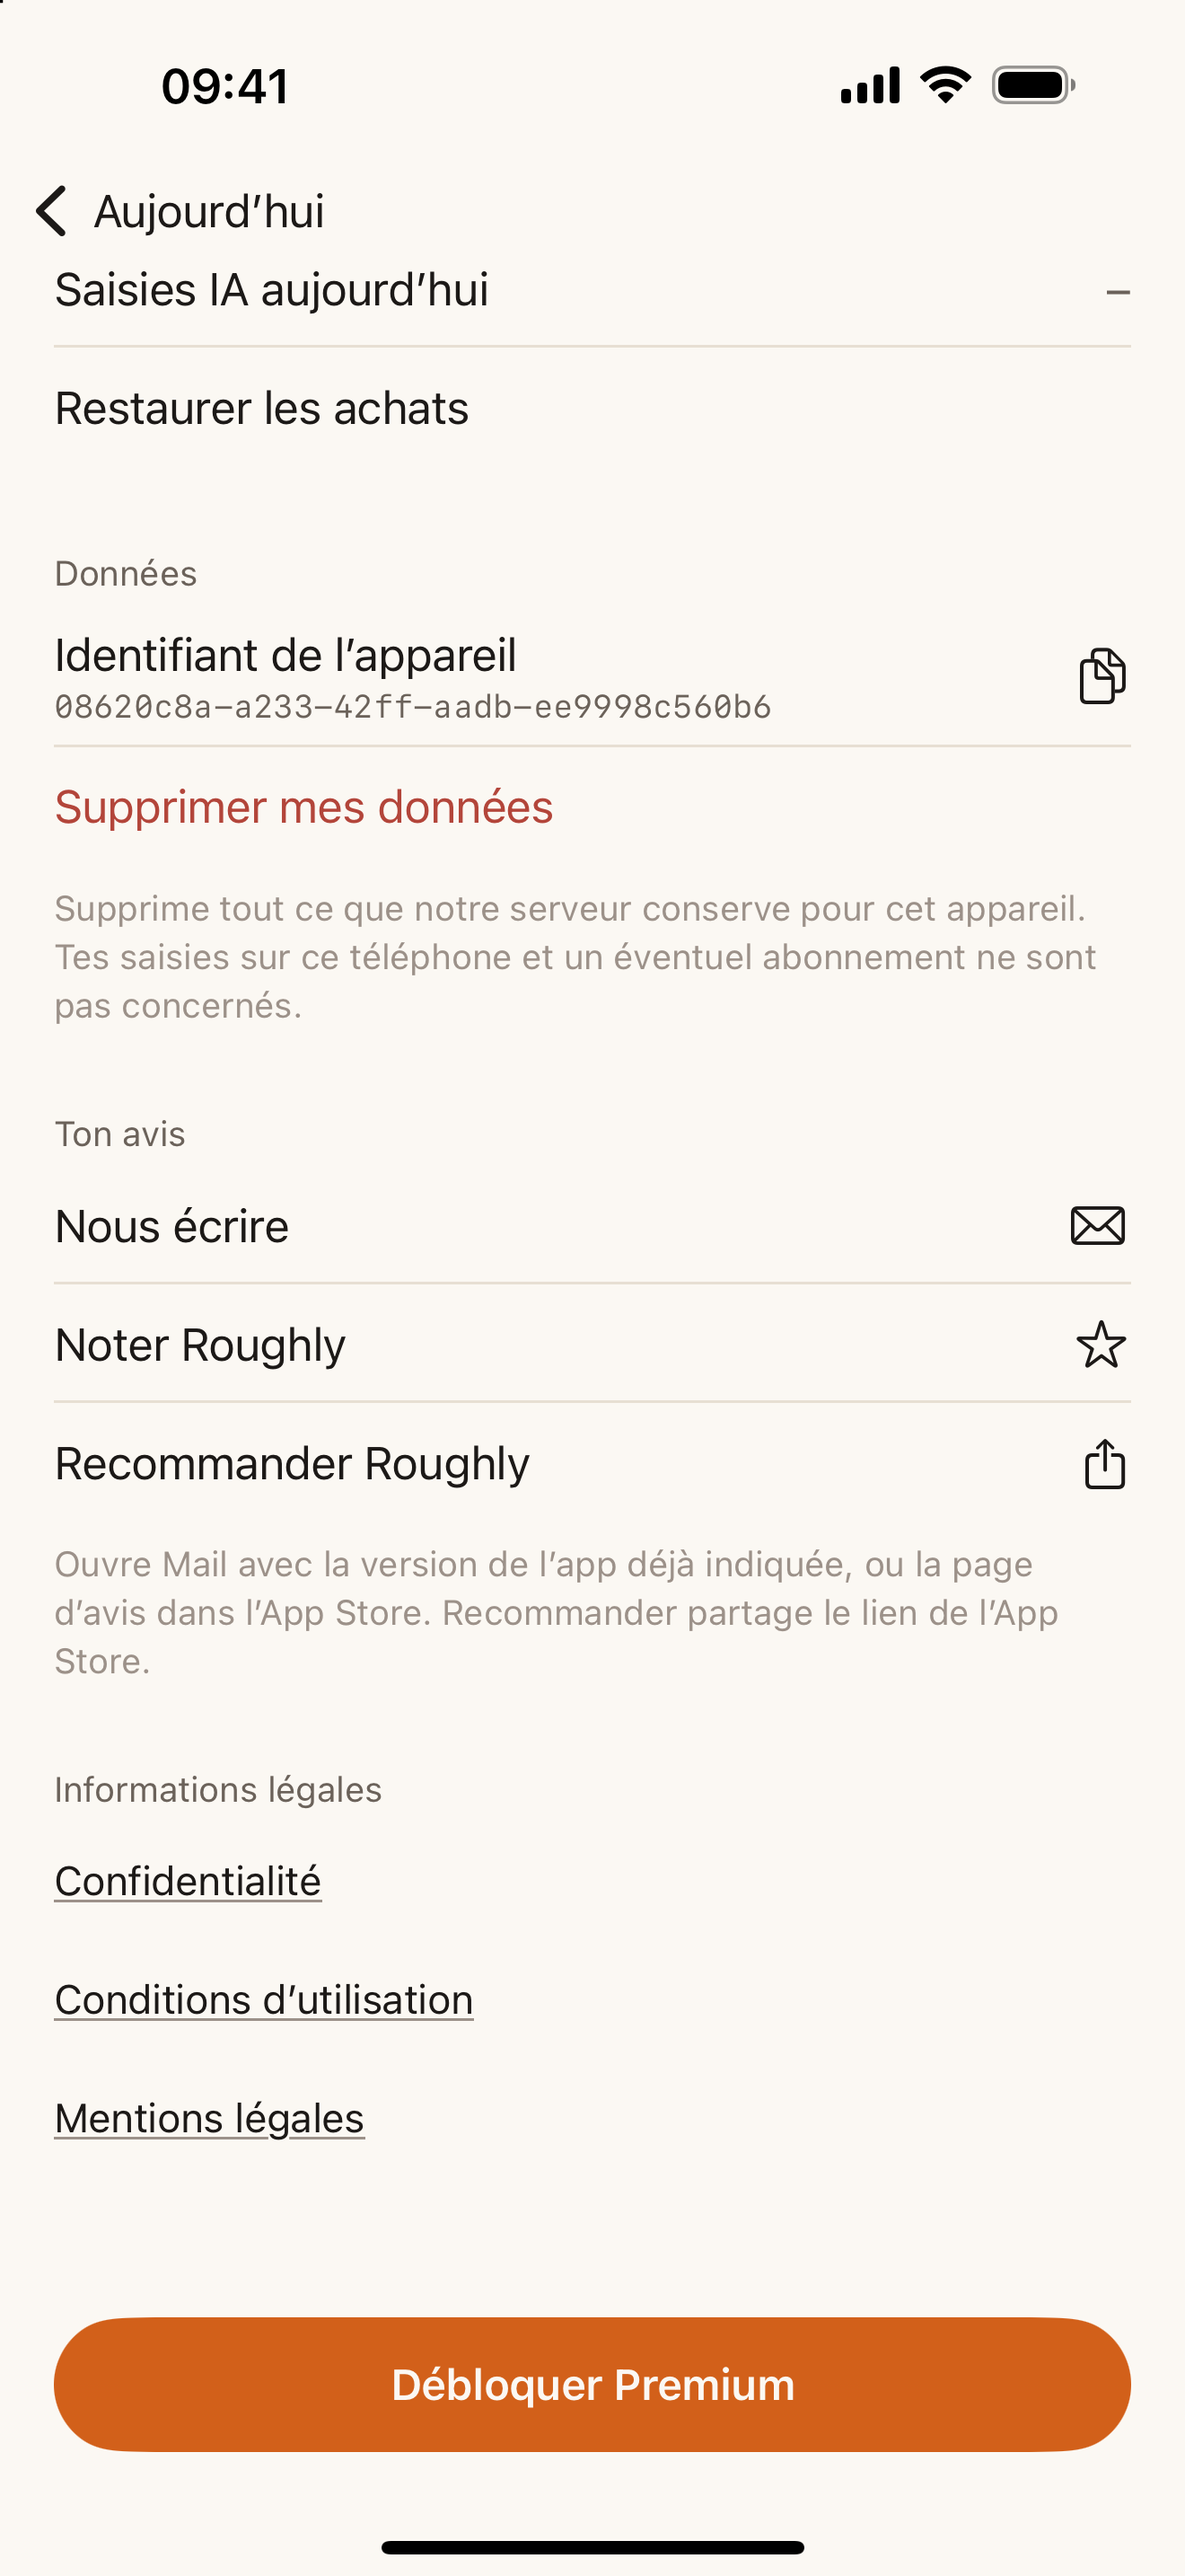
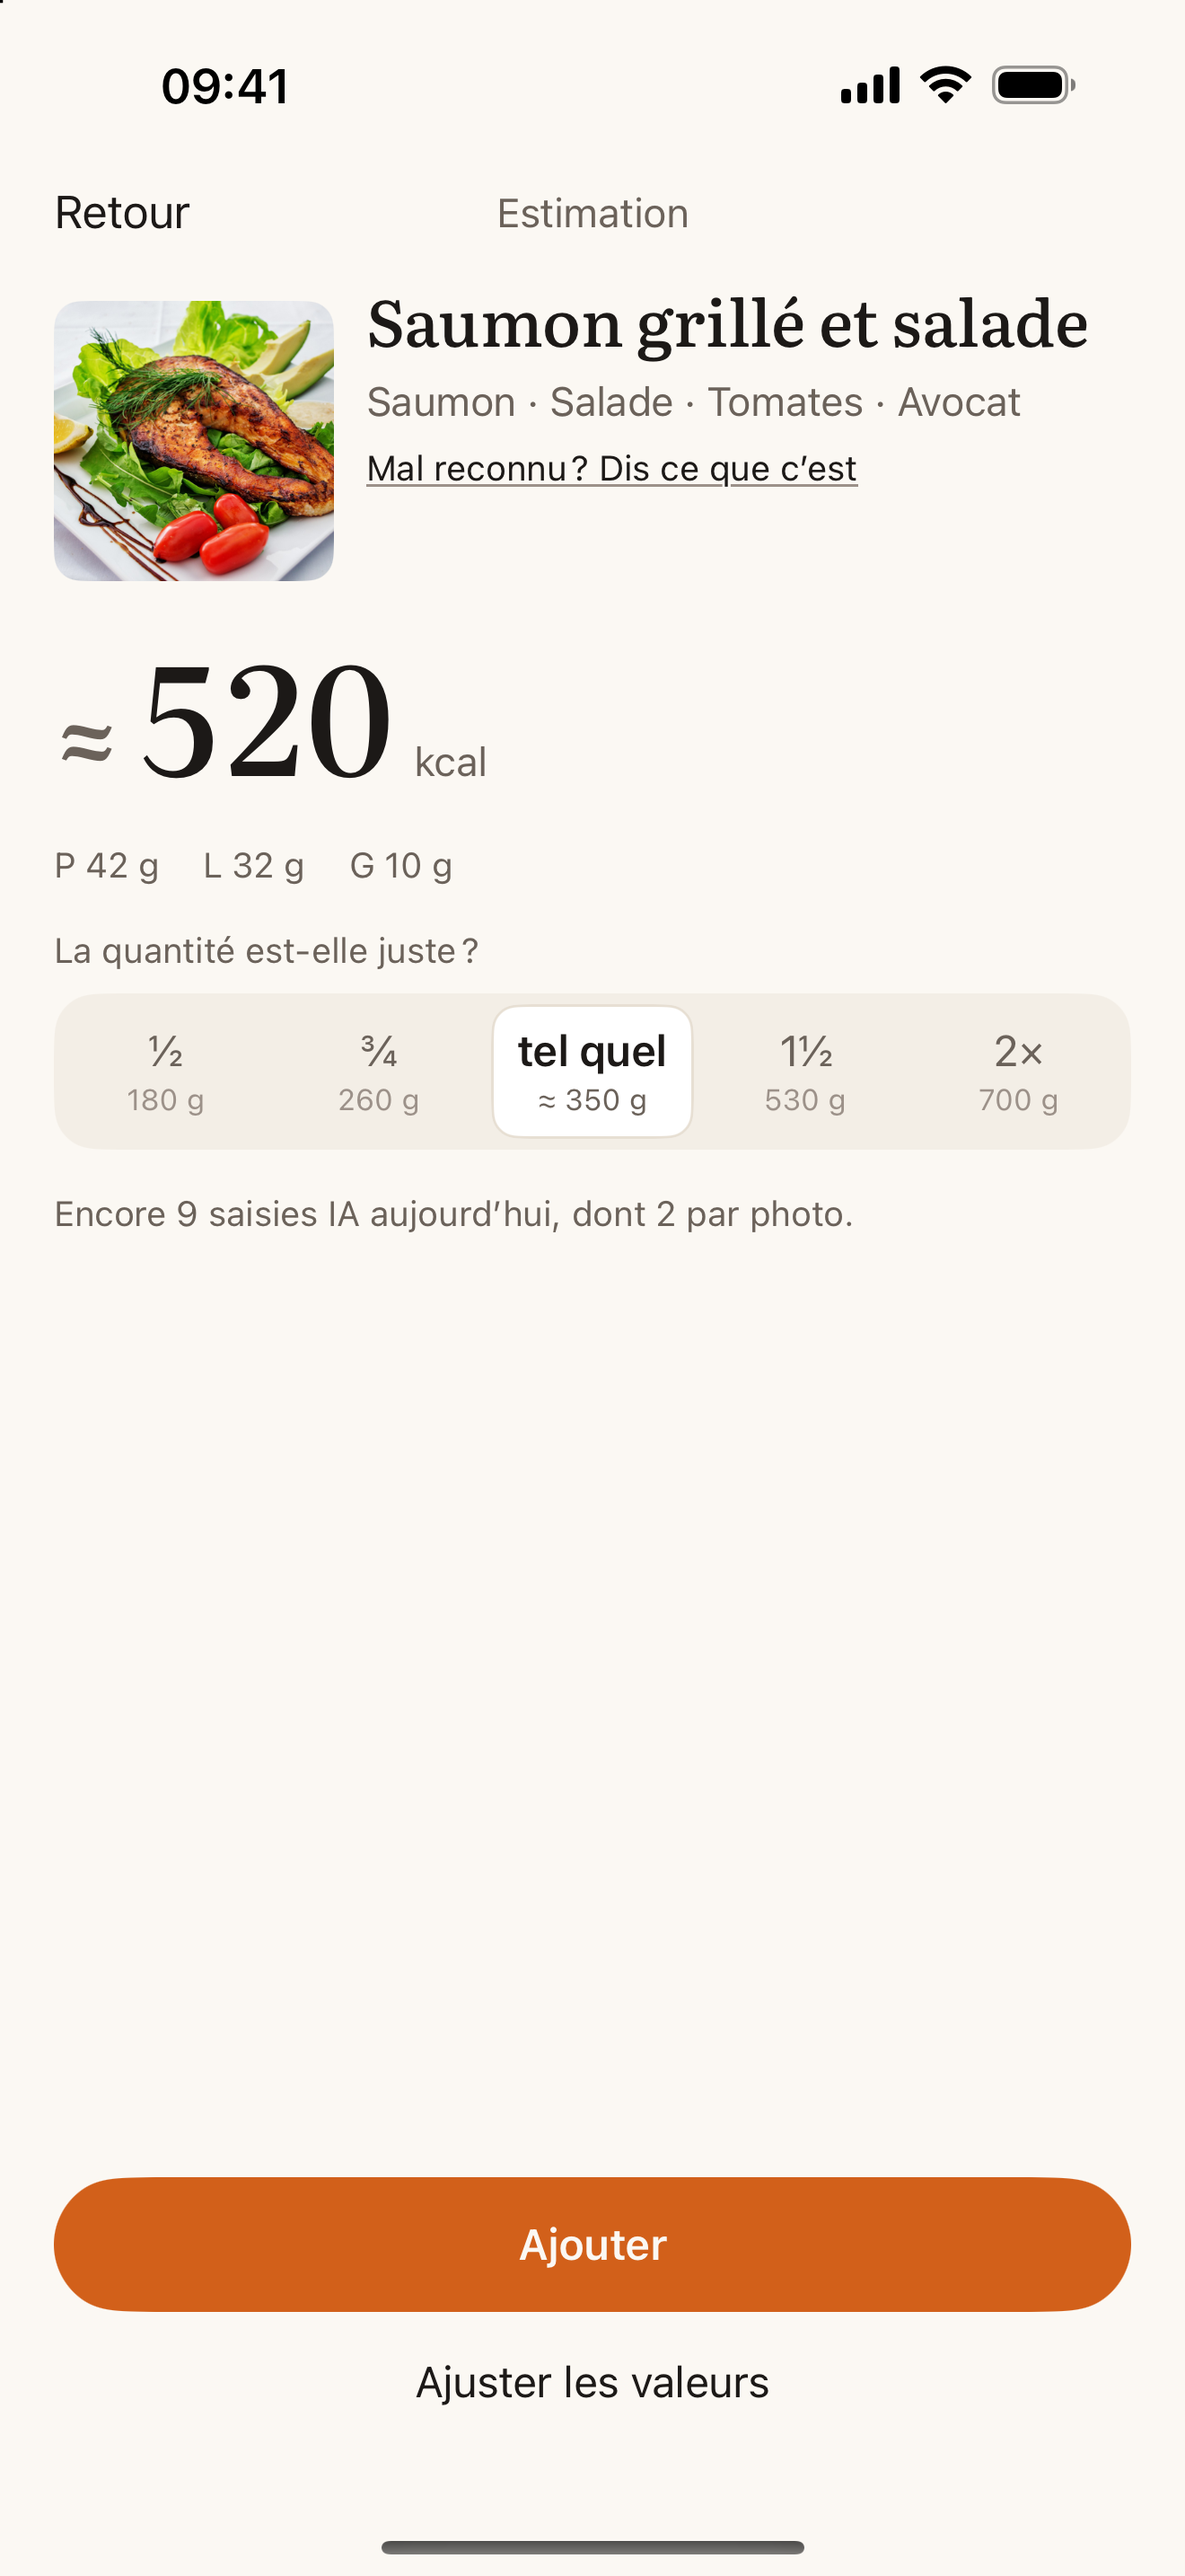
Französisch: viertes Bild zeigt die Foto-Schätzung, wie Deutsch und Englisch

diff --git a/index.html b/index.html
@@ -148,7 +148,7 @@
             <img src="screenshots/fr/01.png" alt="Aujourd’hui : objectif quotidien, progression et repas du jour" width="402" height="874" loading="lazy">
             <img src="screenshots/fr/03.png" alt="Ton objectif quotidien, calculé à partir du poids, de la direction et de l’activité" width="402" height="874" loading="lazy">
             <img src="screenshots/fr/02.png" alt="Historique des derniers jours" width="402" height="874" loading="lazy">
-            <img src="screenshots/fr/04.png" alt="Réglages avec le quota du jour, l’identifiant de l’appareil et la confidentialité" width="402" height="874" loading="lazy">
+            <img src="screenshots/fr/04.png" alt="Estimation photo : le plat reconnu avec ses ingrédients et ses calories, marqué ≈" width="402" height="874" loading="lazy">
         </div>
     </section>
 
